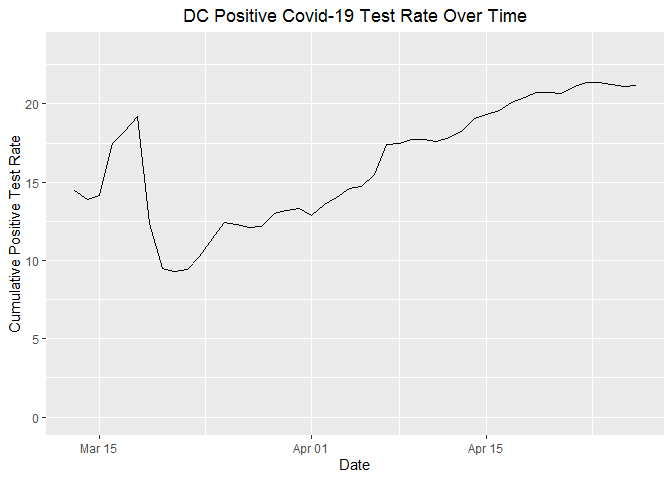
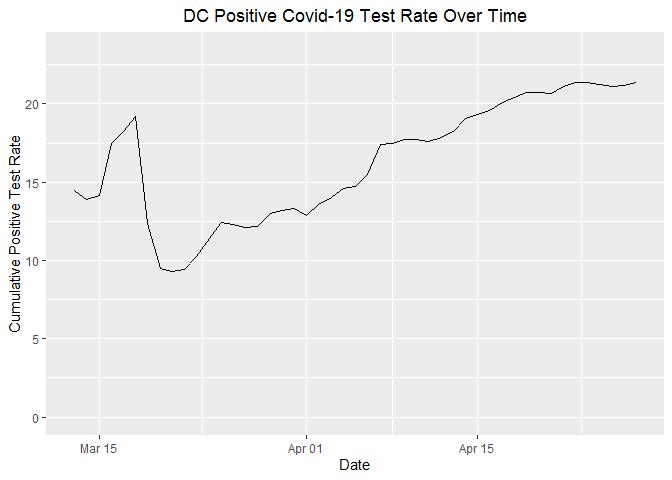
29 April morning update with DC data

diff --git a/Markdown/Pos_Test_Rate.md b/Markdown/Pos_Test_Rate.md
@@ -1,7 +1,7 @@
 Positive Covid-19 Test Rate Increases Around DC
 ================
 
-2020-04-28 17:20:31
+2020-04-29 10:04:15
 
 The number of Covid-19 tests conducted in the DC area increased
 considerably through the first part of April and has generally plateaued
@@ -26,7 +26,7 @@ Maryland is 18.7%, and the rate in Virginia is 16.7%.
 
 The recent increases in positive test rates are more pronounced when
 displayed as recent, rather than cumulative, averages. The average
-positive test rate between 2020-04-25 and 2020-04-27 was 18.6% in DC,
+positive test rate between 2020-04-26 and 2020-04-28 was 18.6% in DC,
 12.6% in Maryland, and 17.9% in Virginia.  
 \` ![](Pos_Test_Rate_files/figure-gfm/rolling_pos_rate-1.png)<!-- -->
 
